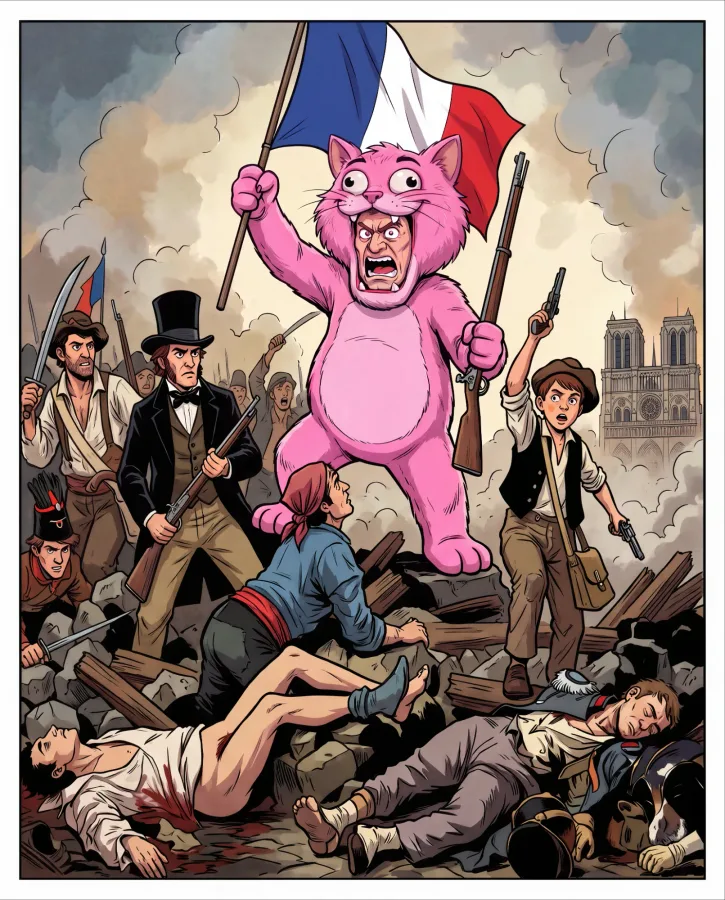
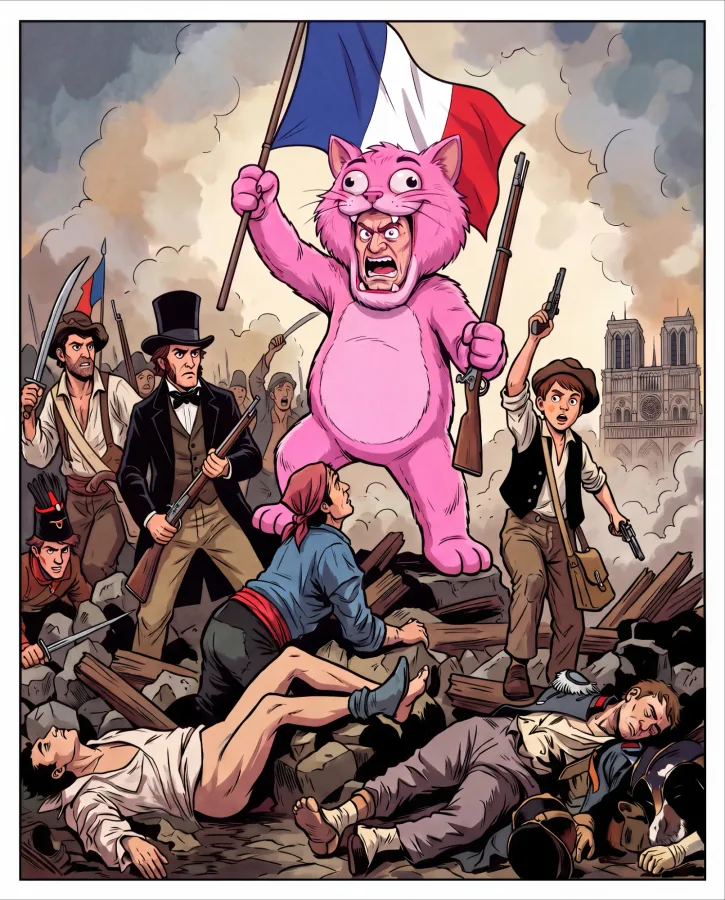
Illustration REVOLUTION! sans sang

diff --git a/index.html b/index.html
@@ -1123,8 +1123,8 @@ function countUp(el, to, ms) {
 }
 // Niveaux de gros gain. art = illustration plein écran (assets/wins/), si elle existe pour ce niveau.
 const BIG_WINS = [
-  { min: M.MAX_WIN, title: 'Max win!', sub: 'The whole country rises. You took it all.', art: 'assets/wins/revolution.webp' },
-  { min: 500, title: 'Revolution!', sub: 'The people take the streets.', art: 'assets/wins/revolution.webp' },
+  { min: M.MAX_WIN, title: 'Max win!', sub: 'The whole country rises. You took it all.', art: 'assets/wins/revolution.webp?v=2' },
+  { min: 500, title: 'Revolution!', sub: 'The people take the streets.', art: 'assets/wins/revolution.webp?v=2' },
   { min: 100, title: 'May 68!', sub: 'Beneath the cobblestones, the beach.', art: 'assets/wins/may68.webp' },
   { min: 30, title: 'Riot!', sub: 'The street has spoken.' },
   { min: 10, title: 'Heating up!', sub: 'The bins are on fire.' },
